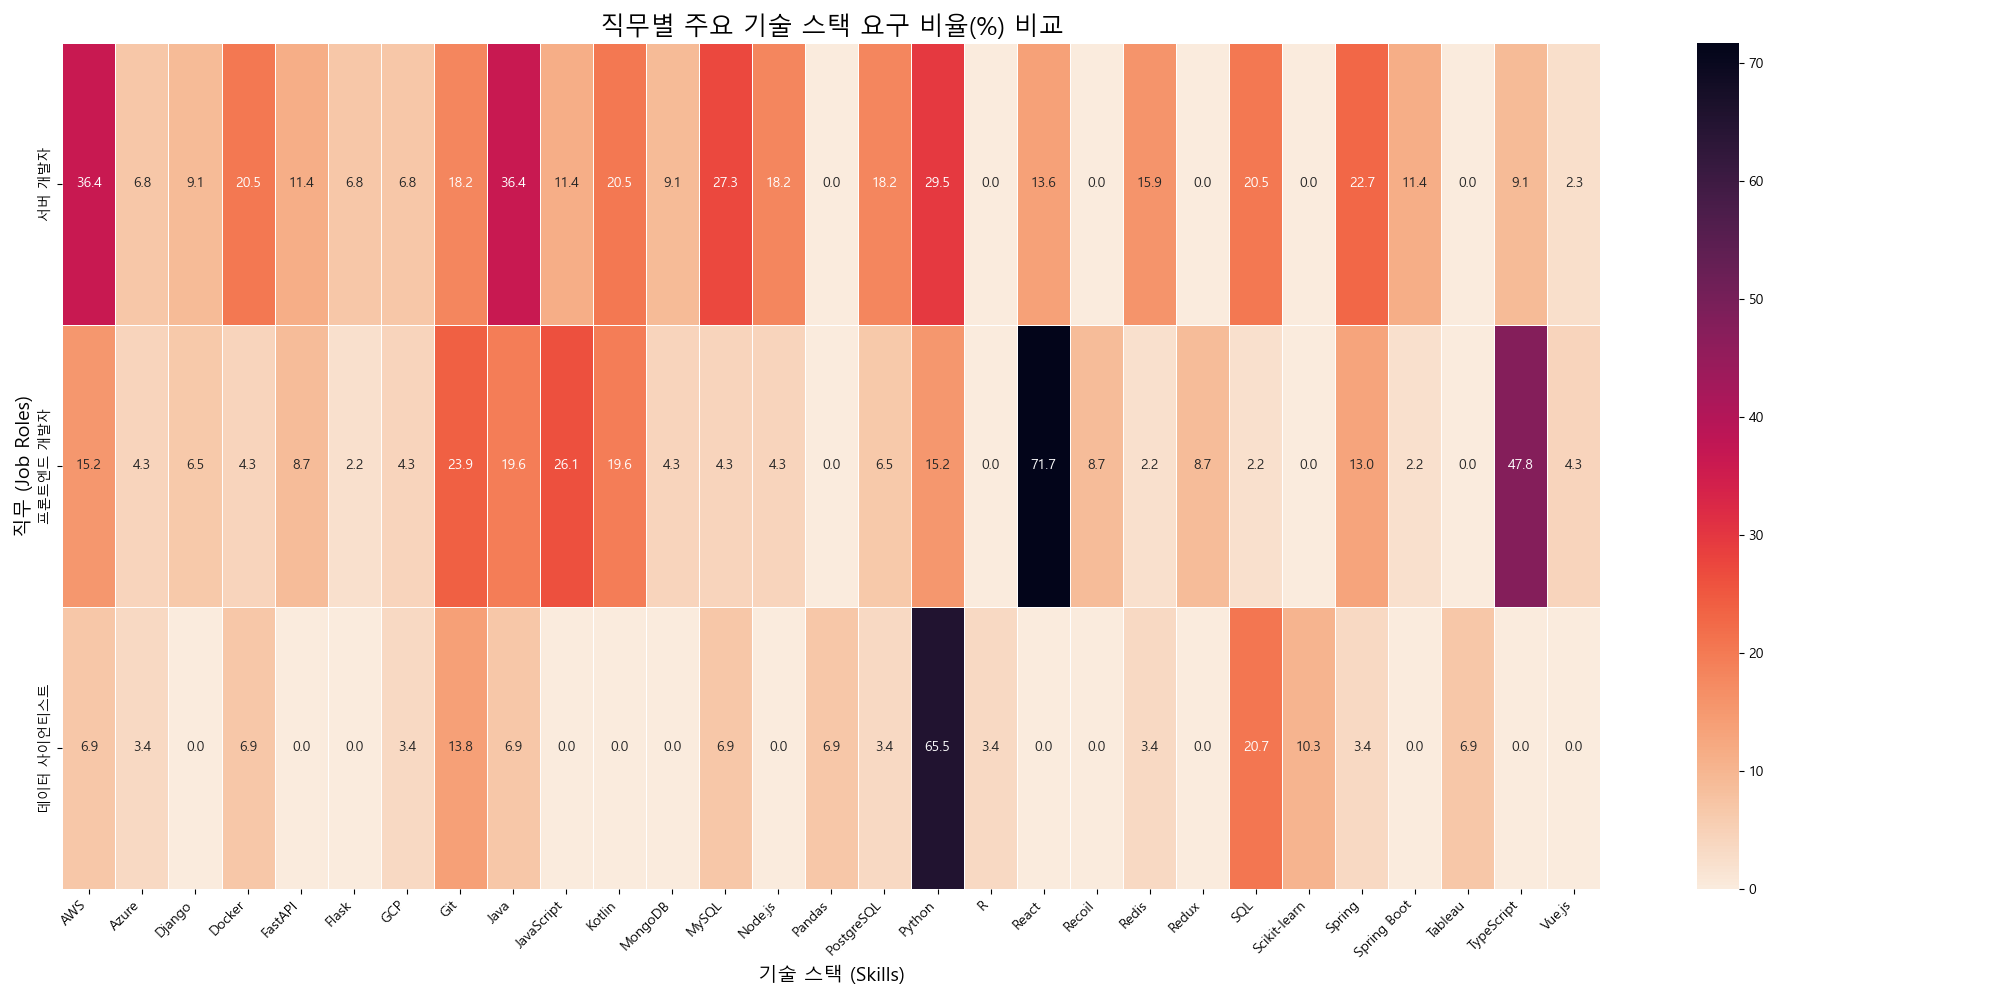
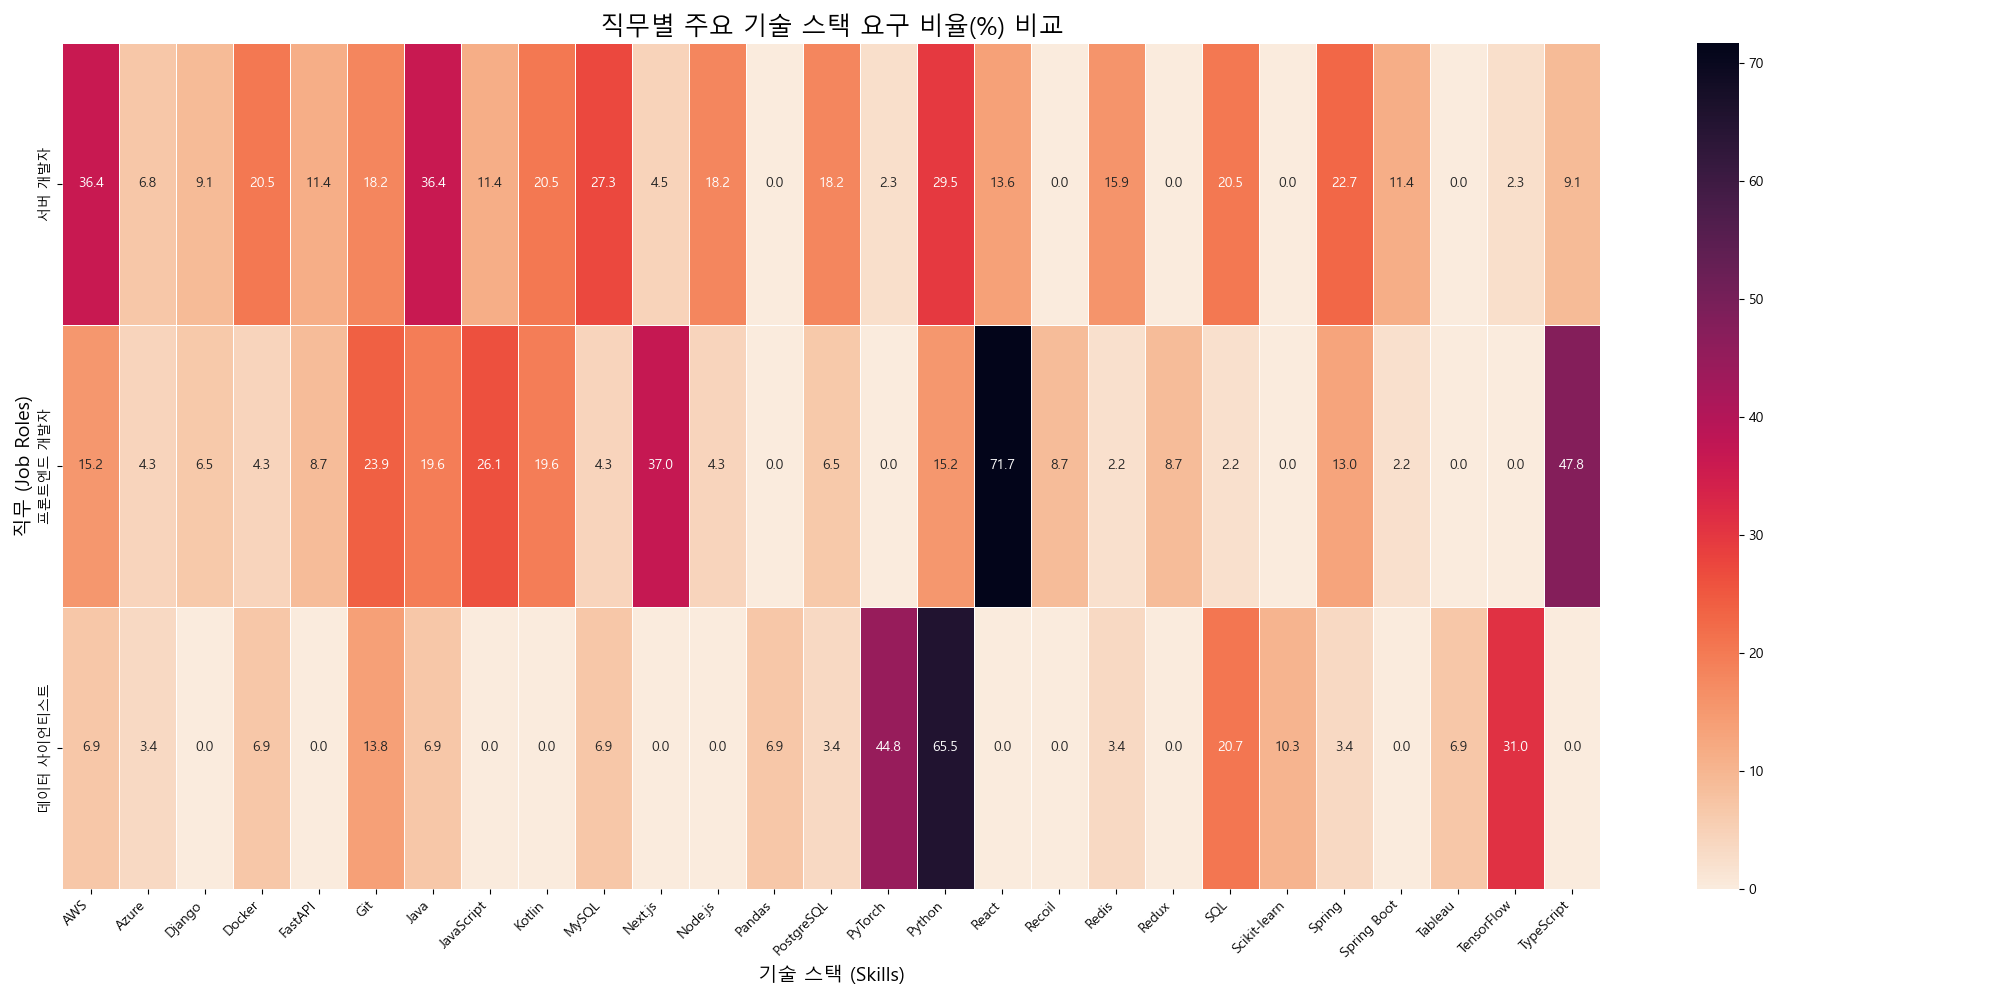
Add files via upload

diff --git a/visualizer.py b/visualizer.py
@@ -181,7 +181,7 @@ def plot_top_skills(skill_data, filename_prefix='graph_top_skills'):
 def plot_heatmap_comparison(df, skill_data, top_n=15, filename='graph_skill_heatmap.png'):
     all_top_skills = set()
     for data in skill_data.values():
-        all_top_skills.update(data.head(top_n)['Skill'])
+        all_top_skills.update(data.tail(top_n)['Skill'])
     
     all_top_skills = sorted(list(all_top_skills))
     
@@ -249,5 +249,4 @@ def main():
         plt.show()
 
 if __name__ == "__main__":
-
     main()
